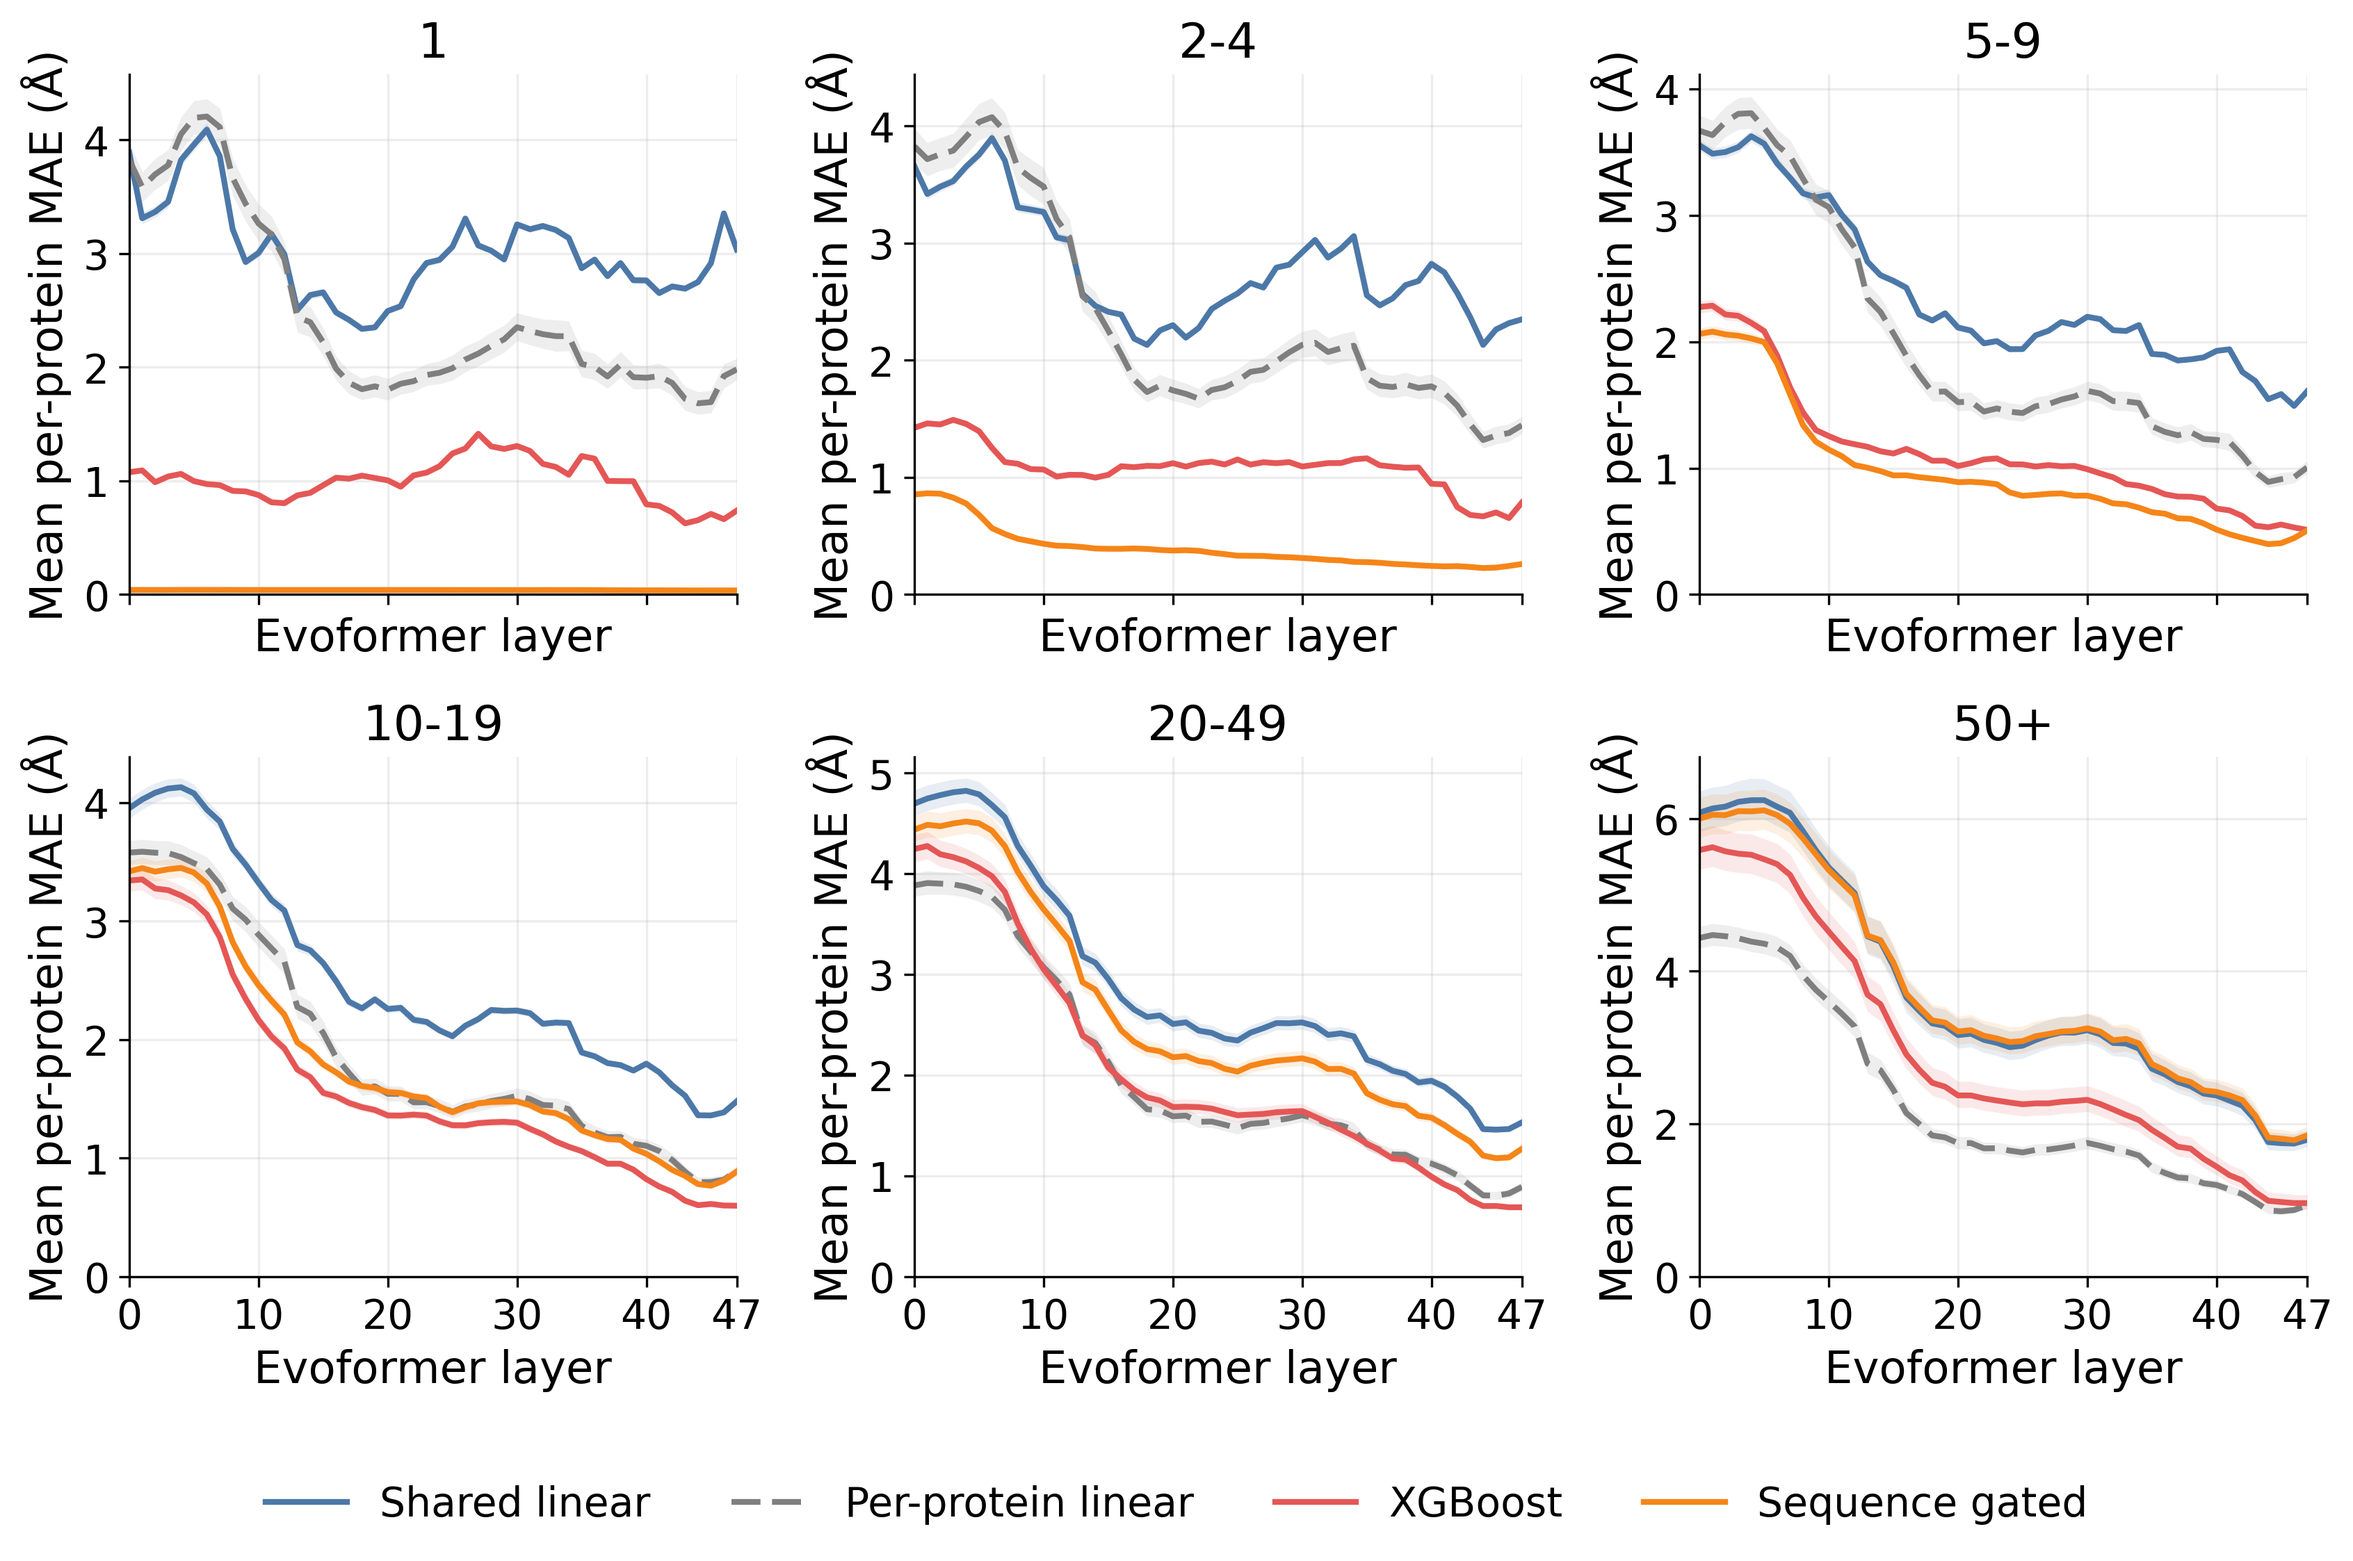
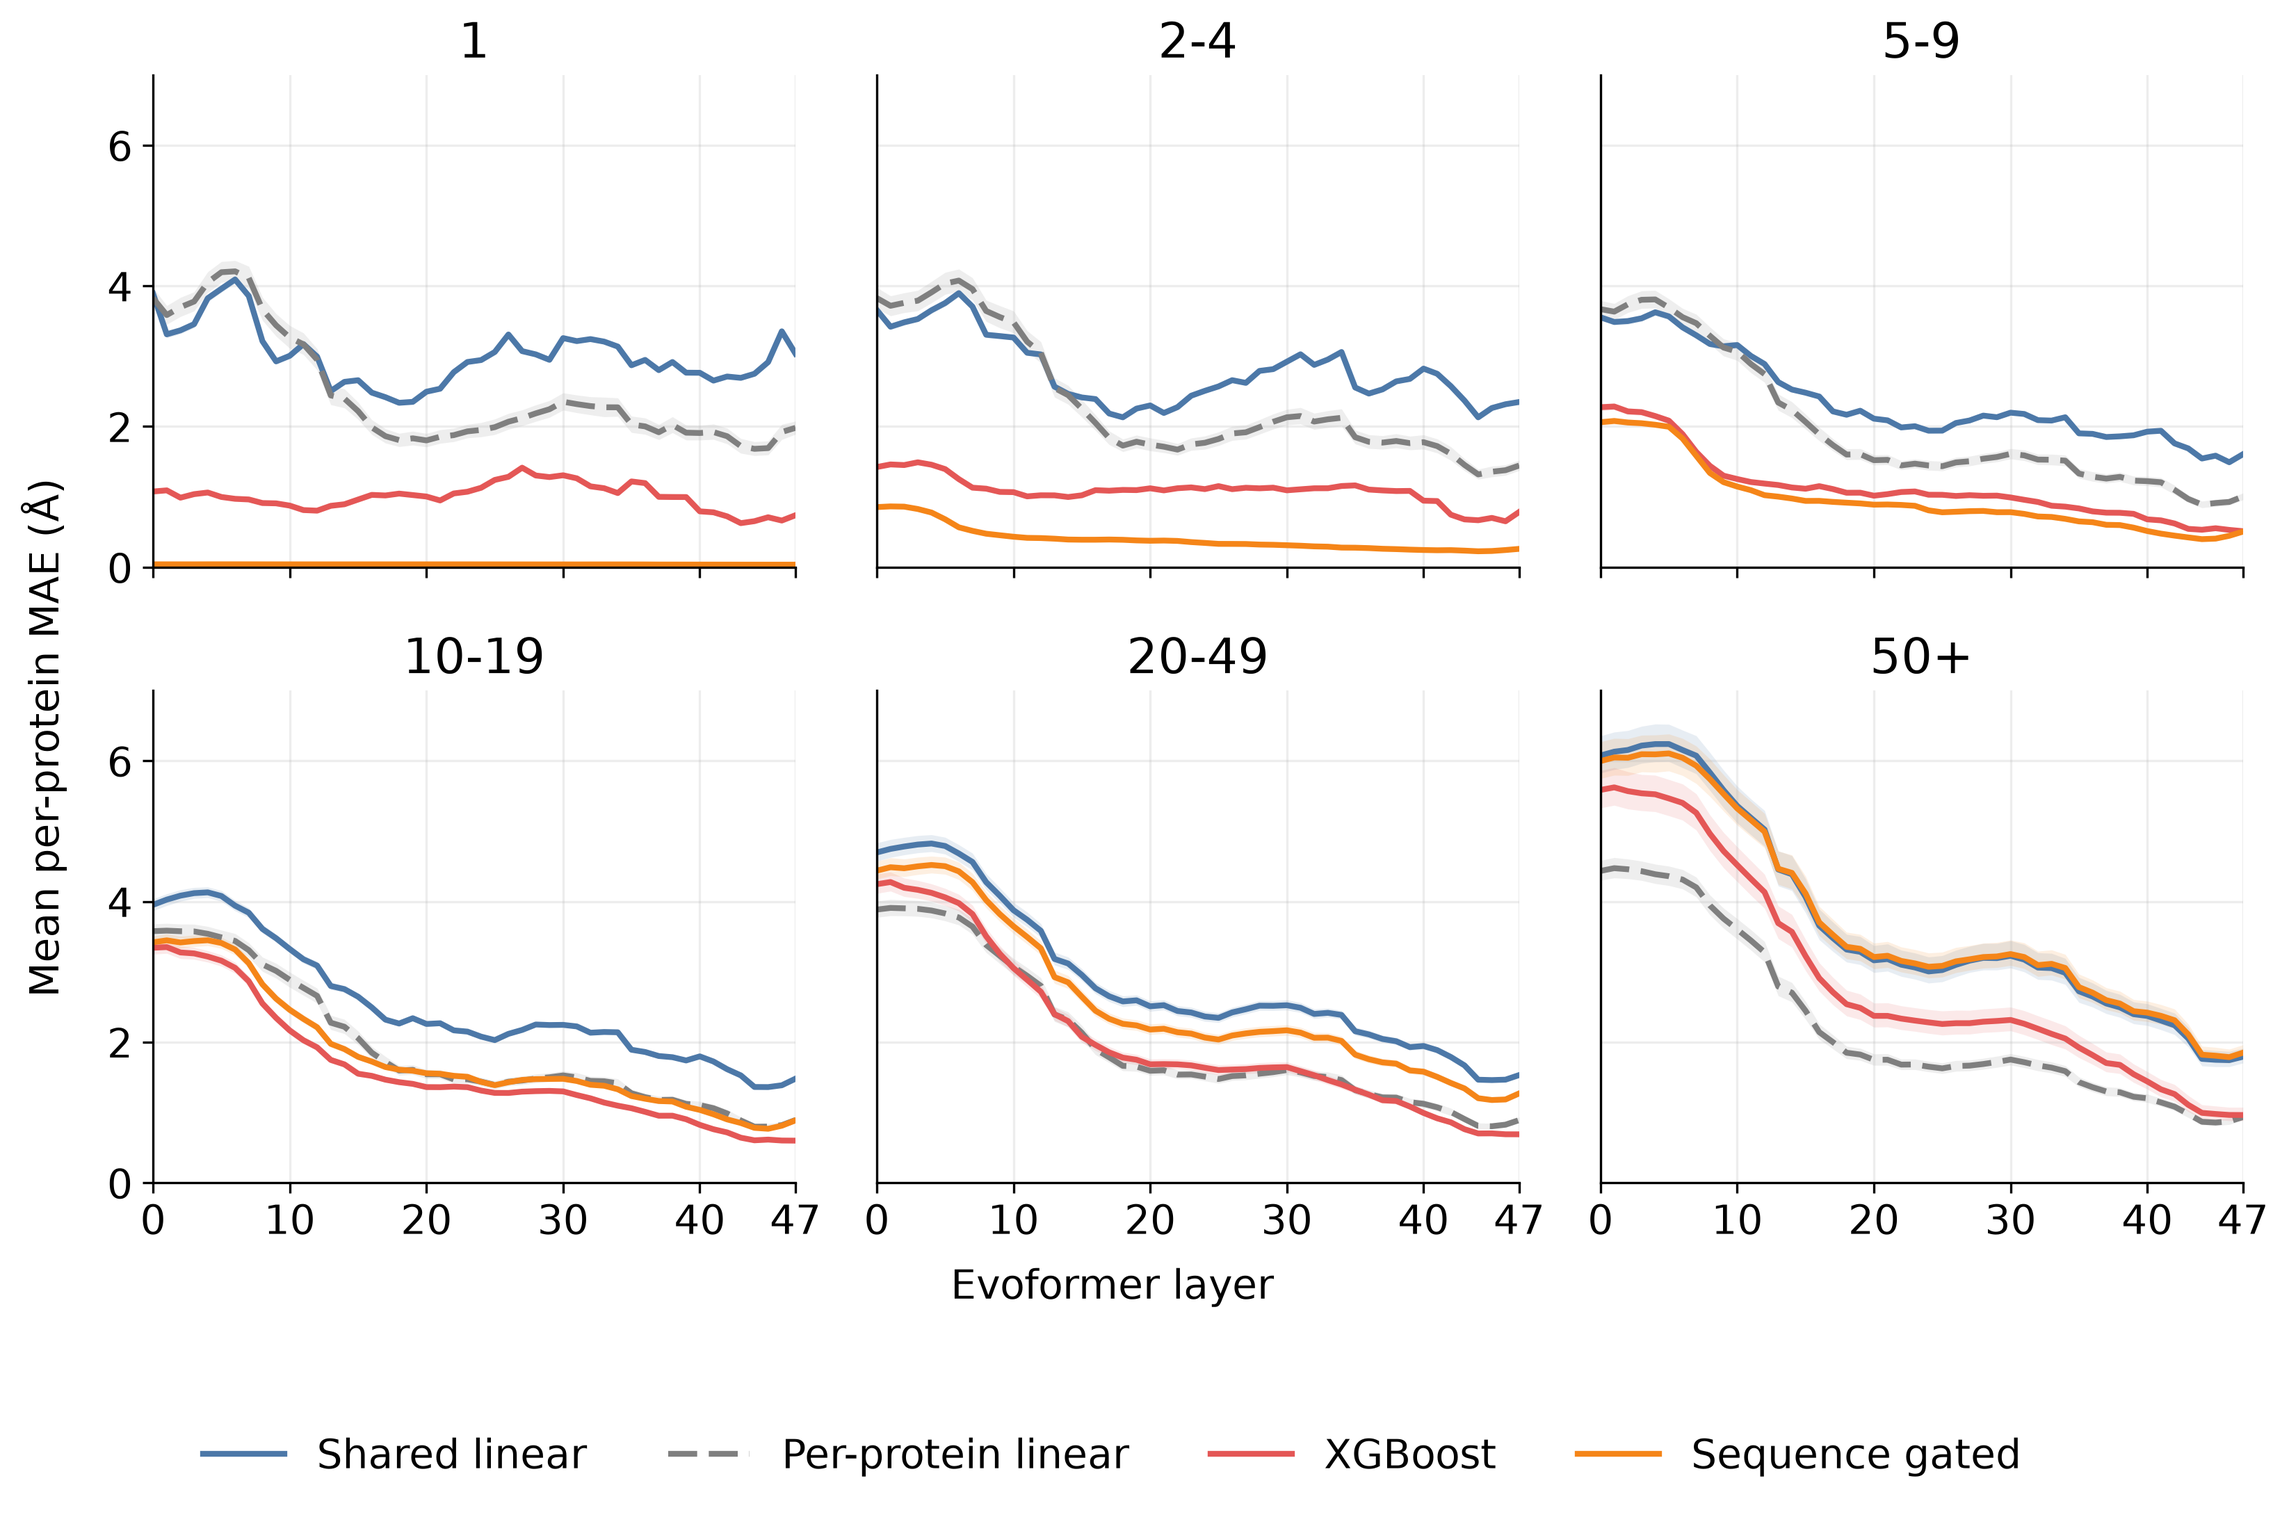
Share axes in sequence-separation MAE figure

diff --git a/scripts/multi_protein/generate_sept_2_publication_plots.py b/scripts/multi_protein/generate_sept_2_publication_plots.py
@@ -1012,9 +1012,10 @@ def faceted_subgroup_figure(
             handles, labels, loc="lower center", bbox_to_anchor=(0.5, 0.01),
             ncol=4, frameon=False,
         )
-        figure.tight_layout(rect=(0.025, 0.22, 1, 0.98))
-        first_axis_bounds = flat[0].get_position()
-        shared_ylabel.set_y((first_axis_bounds.y0 + first_axis_bounds.y1) / 2)
+        figure.tight_layout(rect=(0.025, 0.22 if nrows == 1 else 0.10, 1, 0.98))
+        if nrows == 1:
+            first_axis_bounds = flat[0].get_position()
+            shared_ylabel.set_y((first_axis_bounds.y0 + first_axis_bounds.y1) / 2)
     else:
         figure.legend(handles, labels, loc="lower center", ncol=4, frameon=False)
         figure.tight_layout(rect=(0, 0.08, 1, 1))
@@ -1444,6 +1445,11 @@ def main() -> None:
         sequence_summary, SEQUENCE_BINS, "Mean per-protein MAE (Å)",
         "supp_figure_sequence_separation_mae_combined", SUPPLEMENT_DIR,
         figsize=(11.5, 7.6),
+        # Seven angstroms covers the largest plotted bootstrap CI (6.52 Å).
+        ylimits={category: (0, 7) for category in SEQUENCE_BINS},
+        yticks={category: (0, 2, 4, 6) for category in SEQUENCE_BINS},
+        visible_y_tick_categories={SEQUENCE_BINS[0], SEQUENCE_BINS[3]},
+        shared_axis_labels=True,
     )
     manifest.append(manifest_row(stem="supp_figure_sequence_separation_mae_combined", section="supplemental", title="Protein-equal MAE by sequence separation", png=png, pdf=pdf, source_csvs=[source_paths["sequence_raw"], source_paths["sequence_summary"], source_paths["reconciliation"]], uncertainty=standard_uncertainty))
     for stem, png, pdf in standalone_subgroup_figures(

diff --git a/branch-analysis.md b/branch-analysis.md
@@ -1,5 +1,10 @@
 # Branch Analysis
 
+## Session: 2026-10-05 — Share sequence-separation MAE axes
+
+Regenerated the six-panel sequence-separation MAE supplement with one shared
+axis label, consistent 0–7 Å y limits, and refreshed figure hashes.
+
 ## Session: 2026-10-05 — Separate triangle-grid labels from ticks
 
 Replaced hard-coded y-label coordinates in the stratified triangle grids with
